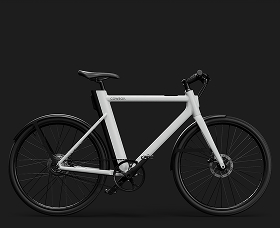
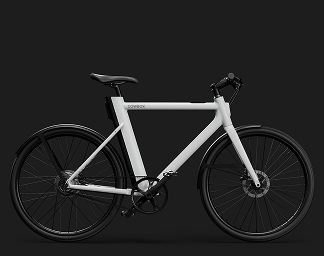
button

diff --git a/index.html b/index.html
@@ -41,7 +41,7 @@
         </article>
 
         <article class="article">
-          <img src="Screenshot 2022-01-14 at 11.12 2.png" alt="bike2">
+          <img src="./src/images/Screenshot 2022-01-14 at 11.12 2.png" alt="bike2">
           <h4 class="model__name">Ride in town ST</h4>
           <p class="model__description">
               An open frame for an upright riding position as the most comfortable ride in town.
@@ -50,7 +50,7 @@
         </article>
 
         <article class="model">
-          <img src="Screenshot 2022-01-14 at 11.12 3.png" alt="bike3">
+          <img src="./src/images/Screenshot 2022-01-14 at 11.12 3 (1).jpg" alt="bike3">
           <h4 class="model__name">Agile ride 3</h4>
           <p class="model__description">
               The lightweight frame that has earned its street tread as a sleek, agile ride.
@@ -66,9 +66,34 @@
             <img src="./src/images/picture-4.jpg" alt="1">
             <img src="./src/images/picture-5.jpg" alt="2">
           </div>
-          <p></p>
-
+          <h4 class="article__title">Auto Unlock</h4>
+          <p class="article__description">
+              The app senses when you're nearby to unlock automatically. GPS tracking so you know where your bike is and can track it anytime.
+          </p>
         </article>
+
+        <article class="article">
+          <div class="pictures">
+            <img src="./src/images/picture-6.jpg" alt="1">
+            <img src="./src/images/picture-7.jpg" alt="2">
+          </div>
+          <h4 class="article__title">Range & Integrated lights</h4>
+          <p class="article__description">
+              The removable battery has up to 70km battery autonomy and weighs only 2.4 kg. Lights integrated into the frame give you always-on visibility day and night. track it anytime.
+          </p>
+        </article>
+
+        <article class="article">
+          <div class="pictures">
+            <img src="./src/images/picture-8.jpg" alt="1">
+            <img src="./src/images/picture-9.jpg" alt="2">
+          </div>
+          <h4 class="article__title">Hydraulic disc brakes & Lightweight</h4>
+          <p class="article__description">
+              Brakes with total stopping power the second you make contact. The removable battery has up to 70km battery autonomy and weighs only 2.4 kg. Lights integrated into the frame give you always-on visibility day and night. track it anytime.
+          </p>
+        </article>
+        <a href="#" class="button">Explore</a>
       </section>
 
       <section class="section">

diff --git a/src/styles/blocks/aricles.scss b/src/styles/blocks/aricles.scss
@@ -1,17 +1,18 @@
-.articles {
+.article {
   font-family: Poppins, sans-serif;
   font-weight: 700;
   font-style: Bold;
   font-size: 24px;
   line-height: 140%;
   letter-spacing: 0;
-}
 
-&__reg {
-  font-family: Poppins, sans-serif;
-  font-weight: 400;
-  font-style: Regular;
-  font-size: 16px;
-  line-height: 140%;
-  letter-spacing: 0;
+
+  &__description {
+    font-family: Poppins, sans-serif;
+    font-weight: 400;
+    font-style: Regular;
+    font-size: 16px;
+    line-height: 140%;
+    letter-spacing: 0;
+  }
 }

diff --git a/src/styles/blocks/button.scss b/src/styles/blocks/button.scss
@@ -1,9 +1,12 @@
 .button {
+  border: none;
+  background-color: white;
   border-radius: 40px;
-  display: block;
-  color: white;
+  display: flex;
+  justify-content: center;
+  align-items: center;
   text-decoration: none;
-  text-align: center;
+  color:black;
   width: 392px;
   height: 56px;
   font-weight: 700;
